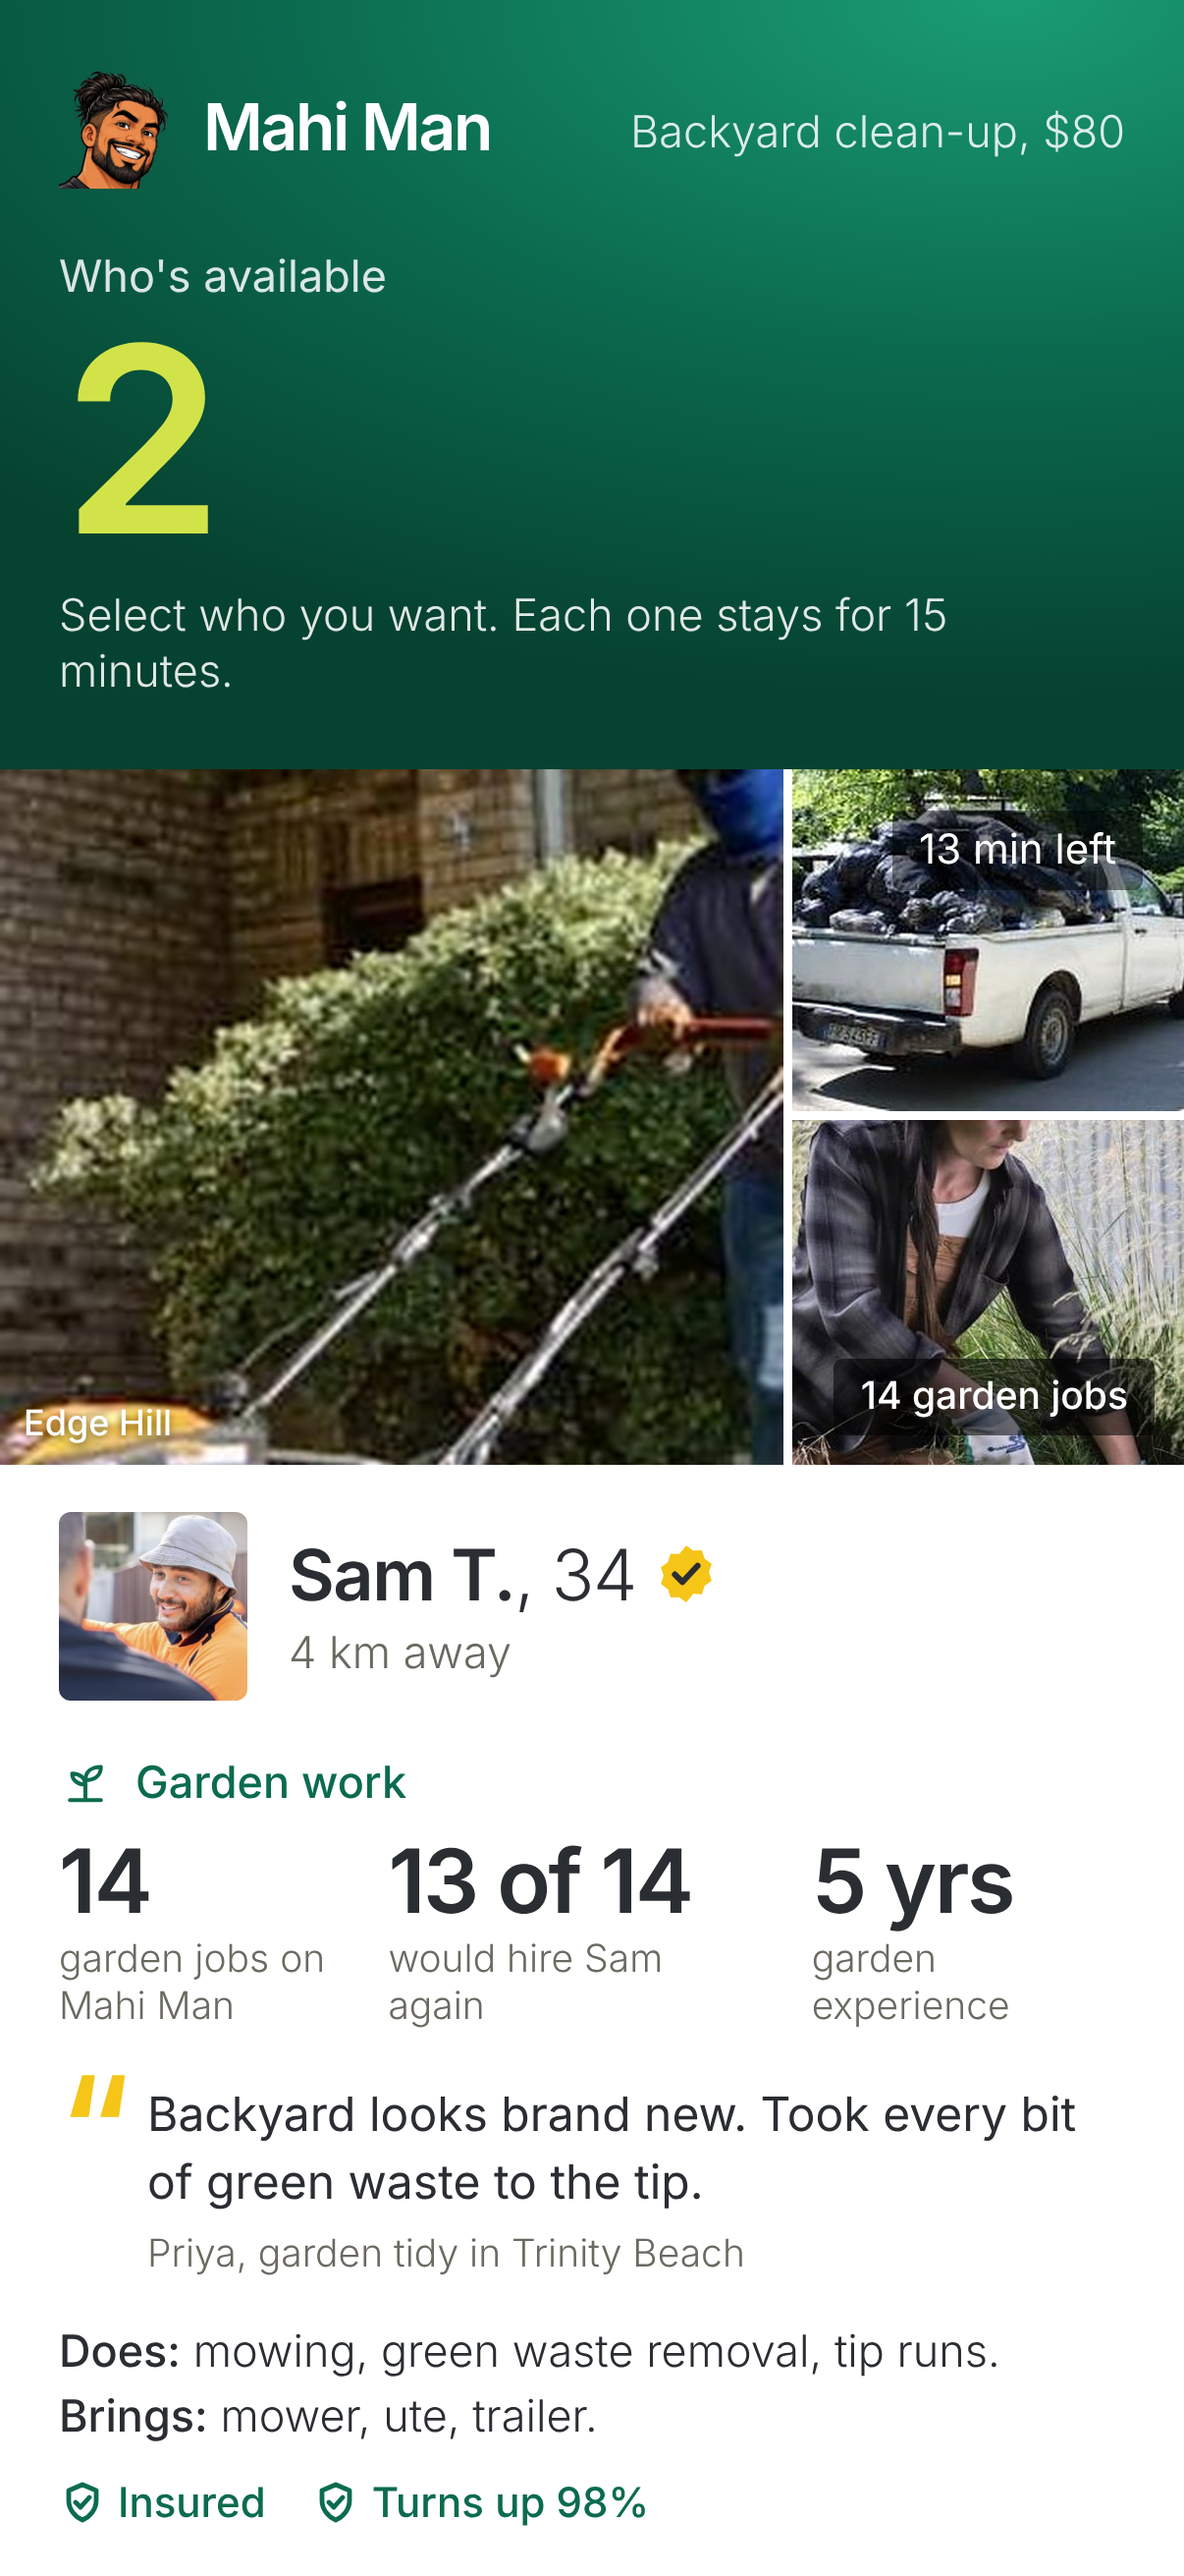
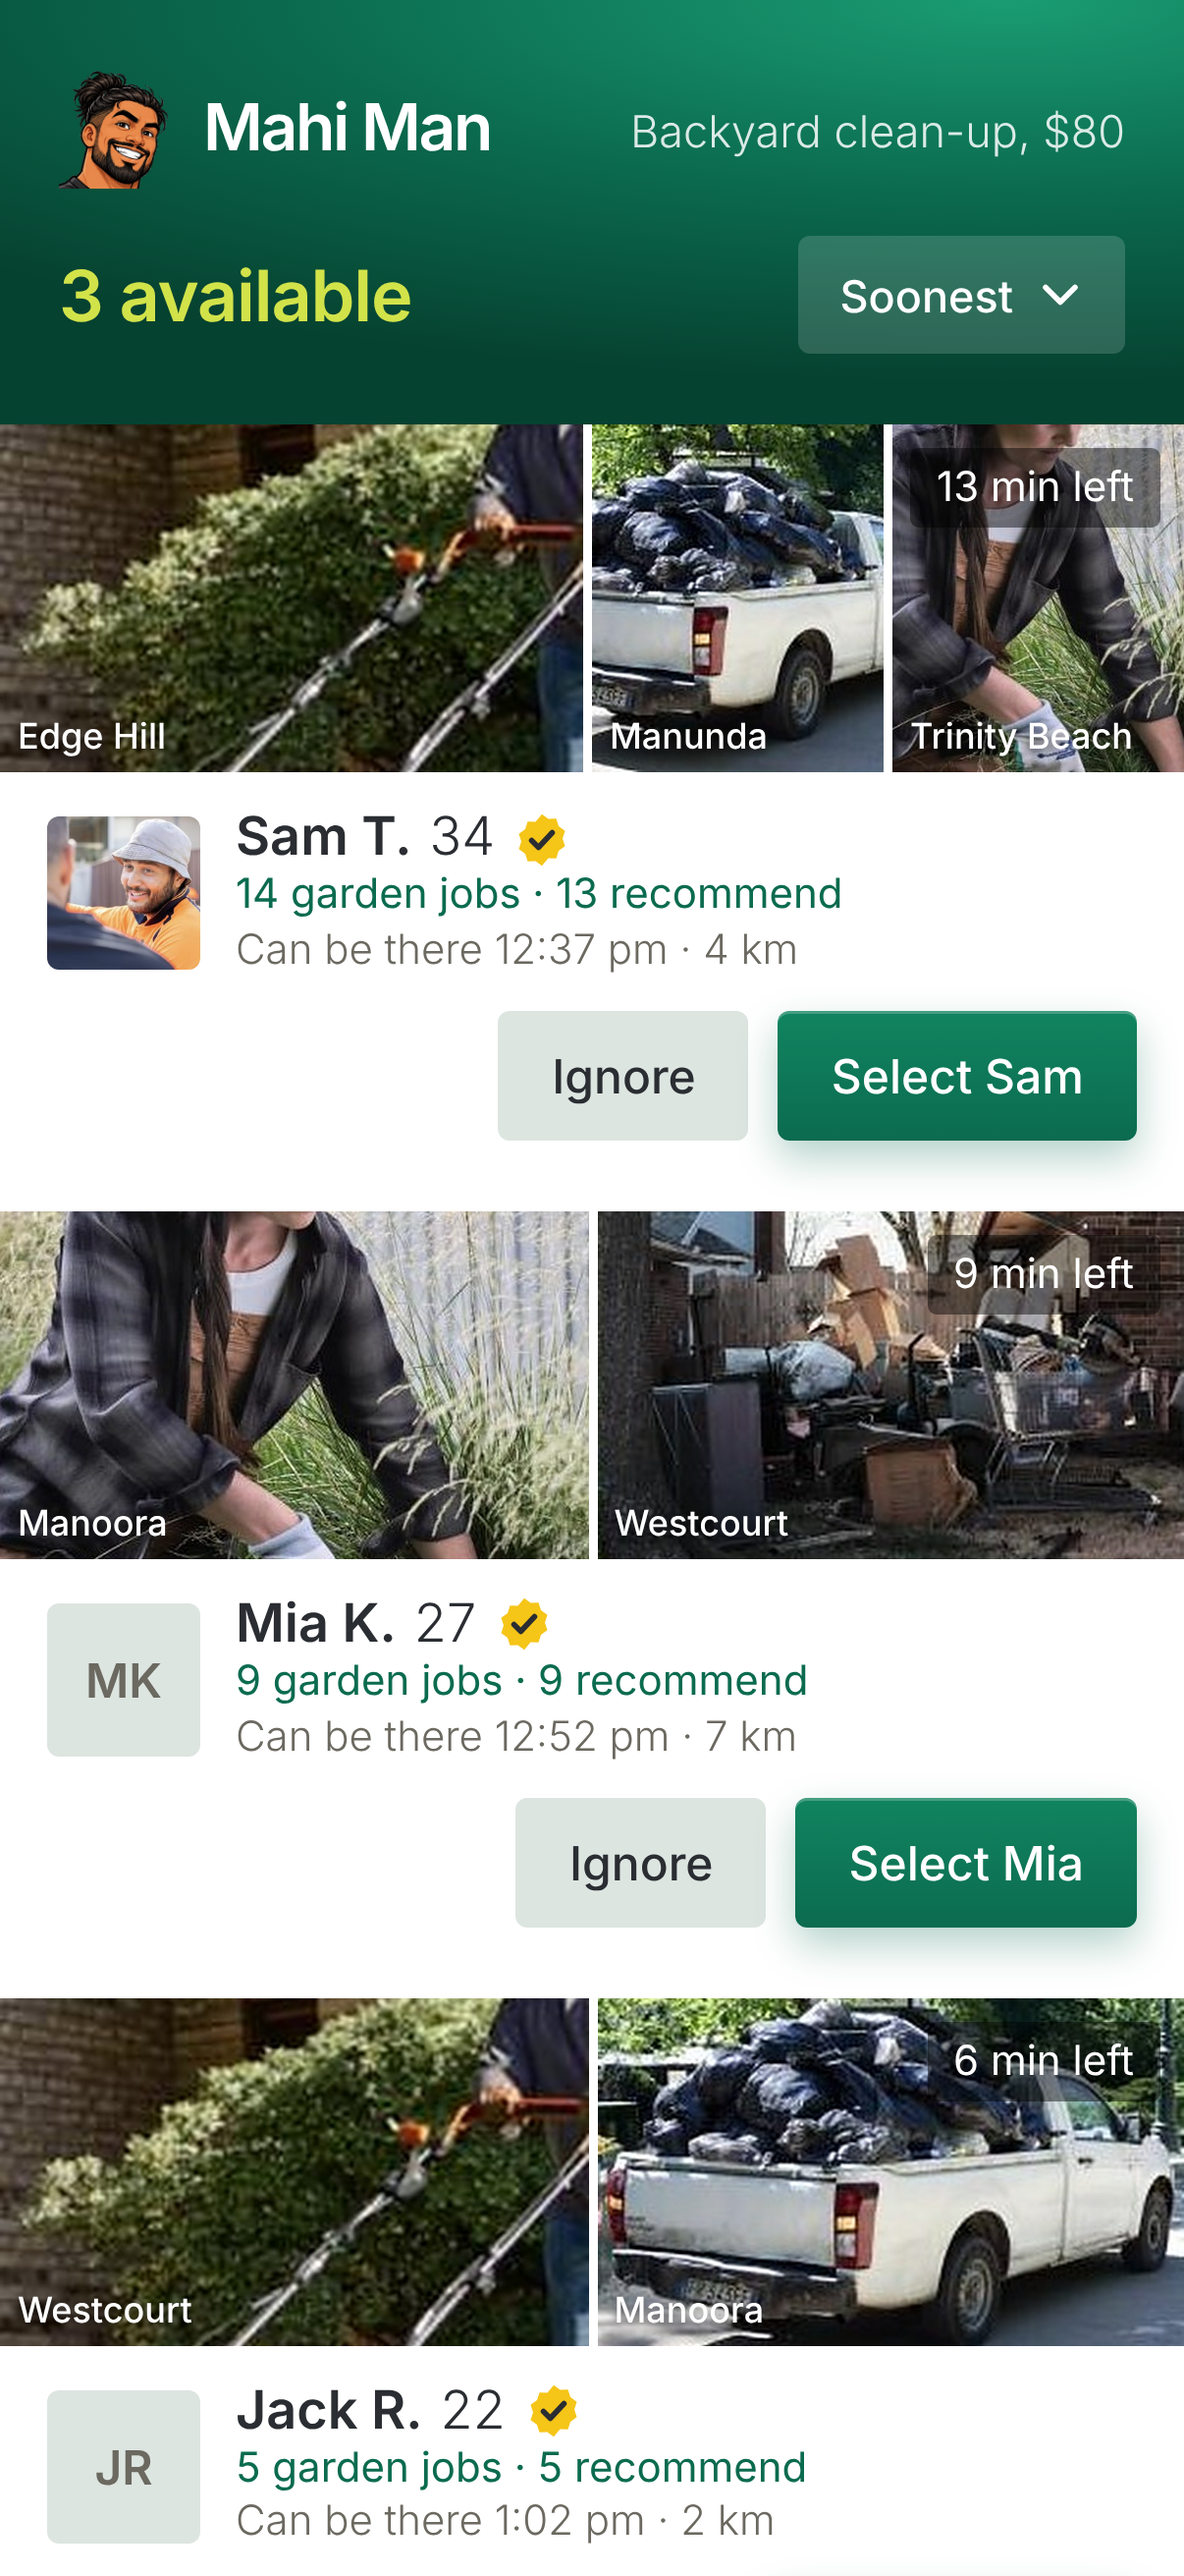
Who's available: one short line with the count and a Sort button (Soonest, Closest, Most recommended, Most jobs); everyone side by side as compact cards with their past work, face, jobs, recommendations, when they can be there, Ignore and Select; tap a card for the full card; top 10 show and ignorin
Claude-Session: https://claude.ai/code/session_01XPpEY4PTT1egLJWieCABBj

diff --git a/src/customer/Offers.tsx b/src/customer/Offers.tsx
@@ -64,6 +64,10 @@ export function OffersView({ jobId, title, price, priceCents = 0, asap, startAt,
     }));
   }, []);
   const [extras, setExtras] = useState<Record<string, Extra>>({});
+  const [openCard, setOpenCard] = useState<string | null>(null);
+  // How the customer wants the list: soonest there, closest, most recommended or most jobs. The top 10 show; ignoring one brings in the next.
+  const [sortBy, setSortBy] = useState<SortKey>("soon");
+  const [pickSort, setPickSort] = useState(false);
   const [profile, setProfile] = useState<string | null>(null);
   const ids = (offers ?? []).map((o) => o.worker_id).join(",");
   useEffect(() => {
@@ -201,9 +205,8 @@ export function OffersView({ jobId, title, price, priceCents = 0, asap, startAt,
         </div>
         {shown.length ? (
           <>
-            <span className="label" style={{ marginTop: 18 }}>Who's available</span>
-            <span className="big lime">{shown.length}</span>
-            <span className="sub" style={{ marginTop: 6 }}>Select who you want. Each one stays for 15 minutes.</span>
+            <div className="av-line"><b>{shown.length} available</b>
+              {!trade && shown.length > 1 && <button className="av-sort" onClick={() => setPickSort(true)}>{SORTS.find((x) => x.id === sortBy)!.label}{Icon.down("#fff")}</button>}</div>
           </>
         ) : (
           <>
@@ -277,7 +280,7 @@ export function OffersView({ jobId, title, price, priceCents = 0, asap, startAt,
         </div>
       )}
       <div className="offers">
-        {shown.map((o) => {
+        {sortOffers(shown, sortBy, work).slice(0, 10).map((o) => {
           const left = Math.max(0, Math.ceil((new Date(o.expires_at).getTime() - now) / 60000));
           const at = asap ? clock(new Date(Date.now() + o.eta_minutes * 60000)) : clock(new Date(startAt));
           const photo = avatarUrl(o.photo_path);
@@ -296,10 +299,41 @@ export function OffersView({ jobId, title, price, priceCents = 0, asap, startAt,
           const lcFirst = (t: string) => t.charAt(0).toLowerCase() + t.slice(1);
           const stats: [string, string][] = jobs > 0
             ? [[String(jobs), `${kind} job${jobs === 1 ? "" : "s"} on Mahi Man`],
-               [w!.reviewed ? `${w!.recommended} of ${w!.reviewed}` : "New", w!.reviewed ? `would hire ${first} again` : "no reviews yet"],
+               [w!.reviewed ? `${w!.recommended}` : "New", w!.reviewed ? "recommend" : "no reviews yet"],
                [yrs ?? `${o.jobs_done}`, yrs ? `${kind} experience` : "jobs done in all"]]
             : [["New", "first Mahi Man job"], [yrs ?? "–", `${kind} experience`], [o.id_verified ? "ID" : "No ID", o.id_verified ? "checked by Mahi Man" : "not checked yet"]];
           const creds = ex?.creds ?? [];
+          // Everyone side by side first: their work, face, record and when they can be there. Tap to see the full card.
+          if (openCard !== o.worker_id) {
+            const line = jobs > 0
+              ? `${jobs} ${kind} job${jobs === 1 ? "" : "s"}${w!.recommended ? ` · ${w!.recommended} recommend` : ""}`
+              : `New to Mahi Man${yrs ? ` · ${yrs} ${kind} experience` : ""}`;
+            return (
+              <section key={o.worker_id} className="cr">
+                <button className={`cr-ph n${Math.min(pics.length, 3)}`} onClick={() => setOpenCard(o.worker_id)} aria-label={`${first}'s work`}>
+                  {pics.slice(0, 3).map((x) => (
+                    <i key={x.path} style={{ backgroundImage: `url("${workUrls[x.path]}")` }}><em>{x.src === "work" ? "Before Mahi Man" : x.suburb}</em></i>
+                  ))}
+                  {!pics.length && <i className="ini">{o.full_name.split(" ").map((x) => x[0]).join("").slice(0, 2)}</i>}
+                  <span className={`ox-left${left <= 3 ? " soon" : ""}`}>{left} min left</span>
+                </button>
+                <div className="cr-b">
+                  <button className="cr-main" onClick={() => setOpenCard(o.worker_id)}>
+                    <span className="cr-f" style={photo ? { backgroundImage: `url(${photo})` } : undefined}>{!photo && o.full_name.split(" ").map((x) => x[0]).join("").slice(0, 2)}</span>
+                    <span className="cr-t">
+                      <b>{o.full_name}{o.age != null && <i>{o.age}</i>}{o.id_verified && <GoldTick s={20} />}</b>
+                      <span className="g">{line}</span>
+                      <span>Can be there {at}{o.distance_km != null ? ` · ${o.distance_km} km` : ""}</span>
+                    </span>
+                  </button>
+                </div>
+                <div className="cr-btns">
+                  <button className="btn stone" onClick={() => ignore(o)} disabled={!!busy}>Ignore</button>
+                  <button className="btn primary" onClick={() => choose(o)} disabled={!!busy}>{busy === o.worker_id ? "Booking…" : `Select ${first}`}</button>
+                </div>
+              </section>
+            );
+          }
           return (
             <section key={o.worker_id} className="ox">
               {/* Their work in this kind of job comes first: photos from finished jobs, or their own past work, clearly marked. */}
@@ -372,8 +406,26 @@ export function OffersView({ jobId, title, price, priceCents = 0, asap, startAt,
         <button className="link quiet" onClick={onCancel}>Cancel this job</button>
       </div>
       {verifying && <VerifyFlow onClose={() => { setVerifying(false); reload(); }} />}
+      {pickSort && <SearchPicker title="Sort by" value={[sortBy]} options={SORTS.map((x) => ({ id: x.id, label: x.label, hint: x.hint }))}
+        onClose={() => setPickSort(false)} onChange={(v) => { setSortBy(v[0] as SortKey); setOpenCard(null); }} />}
       {profile && <WorkerProfile workerId={profile} category={work[profile]?.category_id ?? null} onBack={() => setProfile(null)} />}
       {needCard && <AddCardScreen onBack={() => setNeedCard(null)} onSaved={() => { const o = needCard; setNeedCard(null); window.setTimeout(() => choose(o), 200); }} />}
     </div>
   );
+}
+
+type SortKey = "soon" | "near" | "rec" | "jobs";
+const SORTS: { id: SortKey; label: string; hint: string }[] = [
+  { id: "soon", label: "Soonest", hint: "Who can be there first" },
+  { id: "near", label: "Closest", hint: "Who's nearest to you" },
+  { id: "rec", label: "Most recommended", hint: "Most people recommend them" },
+  { id: "jobs", label: "Most jobs", hint: "Most of this kind of job done" },
+];
+function sortOffers<T extends { worker_id: string; eta_minutes: number; distance_km: number | null; can_come_at?: string | null }>(list: T[], by: SortKey, work: Record<string, Work | undefined>): T[] {
+  const eta = (o: T) => (o.can_come_at ? new Date(o.can_come_at).getTime() : Date.now() + o.eta_minutes * 60000);
+  const km = (o: T) => o.distance_km ?? 999;
+  const rec = (o: T) => work[o.worker_id]?.recommended ?? 0;
+  const jobs = (o: T) => work[o.worker_id]?.jobs ?? 0;
+  const by2 = (a: T, b: T) => (by === "soon" ? eta(a) - eta(b) : by === "near" ? km(a) - km(b) : by === "rec" ? rec(b) - rec(a) || jobs(b) - jobs(a) : jobs(b) - jobs(a) || rec(b) - rec(a)) || eta(a) - eta(b);
+  return [...list].sort(by2);
 }

diff --git a/src/styles.css b/src/styles.css
@@ -2286,3 +2286,28 @@ img.mb-img.mm { object-fit: contain; background: var(--card); }
 .rp-stopask { display: flex; flex-wrap: wrap; align-items: center; gap: 16px; margin-top: 22px; font-size: 16px; }
 .rp-stopask .rp-stop { margin: 0; font-weight: 500; }
 .rp-keep { padding: 0; border: 0; background: none; font: inherit; font-size: 16px; color: var(--muted); cursor: pointer; }
+
+/* Who's available: one short line, then everyone side by side */
+.av-line { display: flex; align-items: center; justify-content: space-between; gap: 10px; margin-top: 14px; color: #fff; }
+.av-sort { display: flex; align-items: center; gap: 6px; height: 40px; padding: 0 12px 0 14px; border: 0; border-radius: 4px; background: rgba(255,255,255,0.16); color: #fff; font: inherit; font-size: 15px; font-weight: 500; cursor: pointer; }
+.av-line b { font-size: 24px; font-weight: 600; letter-spacing: -0.4px; color: var(--lime); }
+.av-line span { font-size: 15px; font-weight: 300; opacity: 0.85; }
+.cr { background: var(--card); margin-bottom: 10px; }
+.cr-ph { position: relative; display: grid; grid-template-columns: 2fr 1fr 1fr; gap: 3px; width: 100%; height: 118px; padding: 0; border: 0; background: var(--card); cursor: pointer; }
+.cr-ph i { position: relative; background: var(--stone) center / cover no-repeat; font-style: normal; }
+.cr-ph.n2 { grid-template-columns: 1fr 1fr; }
+.cr-ph.n1, .cr-ph.n0 { grid-template-columns: 1fr; }
+.cr-ph i em { position: absolute; left: 6px; bottom: 5px; font-style: normal; font-size: 12px; font-weight: 500; color: #fff; text-shadow: 0 1px 3px rgba(0,0,0,0.6); }
+.cr-ph i.ini { display: flex; align-items: center; justify-content: center; font-size: 40px; font-weight: 600; color: var(--muted); }
+.cr-ph .ox-left { top: 8px; right: 8px; }
+.cr-b { display: flex; align-items: center; gap: 12px; padding: 12px 16px 0; }
+.cr-btns { display: flex; justify-content: flex-end; gap: 10px; padding: 10px 16px 14px; }
+.cr-btns .btn { height: 44px; padding: 0 18px; font-size: 16px; }
+.cr-main { flex: 1; min-width: 0; display: flex; align-items: center; gap: 12px; padding: 0; border: 0; background: none; text-align: left; color: var(--ink); font: inherit; cursor: pointer; }
+.cr-f { width: 52px; height: 52px; flex: none; border-radius: 4px; background: var(--stone-2) center 20% / cover no-repeat; display: flex; align-items: center; justify-content: center; font-weight: 600; color: var(--muted); }
+.cr-t { flex: 1; min-width: 0; }
+.cr-t b { display: flex; align-items: center; gap: 6px; font-size: 18px; font-weight: 600; }
+.cr-t b i { font-style: normal; font-weight: 300; }
+.cr-t > span { display: block; font-size: 14px; font-weight: 300; color: var(--muted); line-height: 1.35; }
+.cr-t > span.g { color: var(--emerald); font-weight: 400; }
+.cr-b > .btn { height: 44px; padding: 0 18px; font-size: 16px; flex: none; }

diff --git a/src/ui/WorkerProfile.tsx b/src/ui/WorkerProfile.tsx
@@ -29,7 +29,7 @@ export function WorkerProfile({ workerId, category = null, onBack }: { workerId:
   }, [workerId, category]);
   const first = p?.name.split(" ")[0] ?? "";
   const face = avatarUrl(p?.photo);
-  const rec = p?.scores?.reviewed ? `${p.scores.recommended} of ${p.scores.reviewed}` : "New";
+  const rec = p?.scores?.reviewed ? `${p.scores.recommended}` : "New";
 
   return (
     <Screen title={p ? `${first}'s work` : "Their work"} onBack={onBack}>
@@ -44,7 +44,7 @@ export function WorkerProfile({ workerId, category = null, onBack }: { workerId:
           </div>
           <div className="pf-all">
             <div><b>{p.jobs}</b><small>jobs done</small></div>
-            <div><b>{rec}</b><small>{p.scores?.reviewed ? "would hire again" : "no reviews yet"}</small></div>
+            <div><b>{rec}</b><small>{p.scores?.reviewed ? "recommend" : "no reviews yet"}</small></div>
             <div><b>{p.turns_up != null ? `${p.turns_up}%` : "New"}</b><small>turn up on time</small></div>
           </div>
           {p.sections.map((s, i) => {
@@ -54,7 +54,7 @@ export function WorkerProfile({ workerId, category = null, onBack }: { workerId:
             const own = pics.length > 0 && pics.every((x) => x.src === "work");
             const line = [
               s.jobs ? `${s.jobs} job${s.jobs === 1 ? "" : "s"}` : "No Mahi Man jobs yet",
-              s.reviewed ? (s.recommended === s.reviewed ? (s.reviewed === 1 ? "would hire again" : "all would hire again") : `${s.recommended} would hire again`) : "",
+              s.recommended ? `${s.recommended} recommend` : "",
             ].filter(Boolean).join(", ") + (s.years != null ? `. ${yearsLine(s.years, kind)}` : "");
             return (
               <section key={s.category_id} className={big ? "pf-sec" : "pf-sec small"}>
